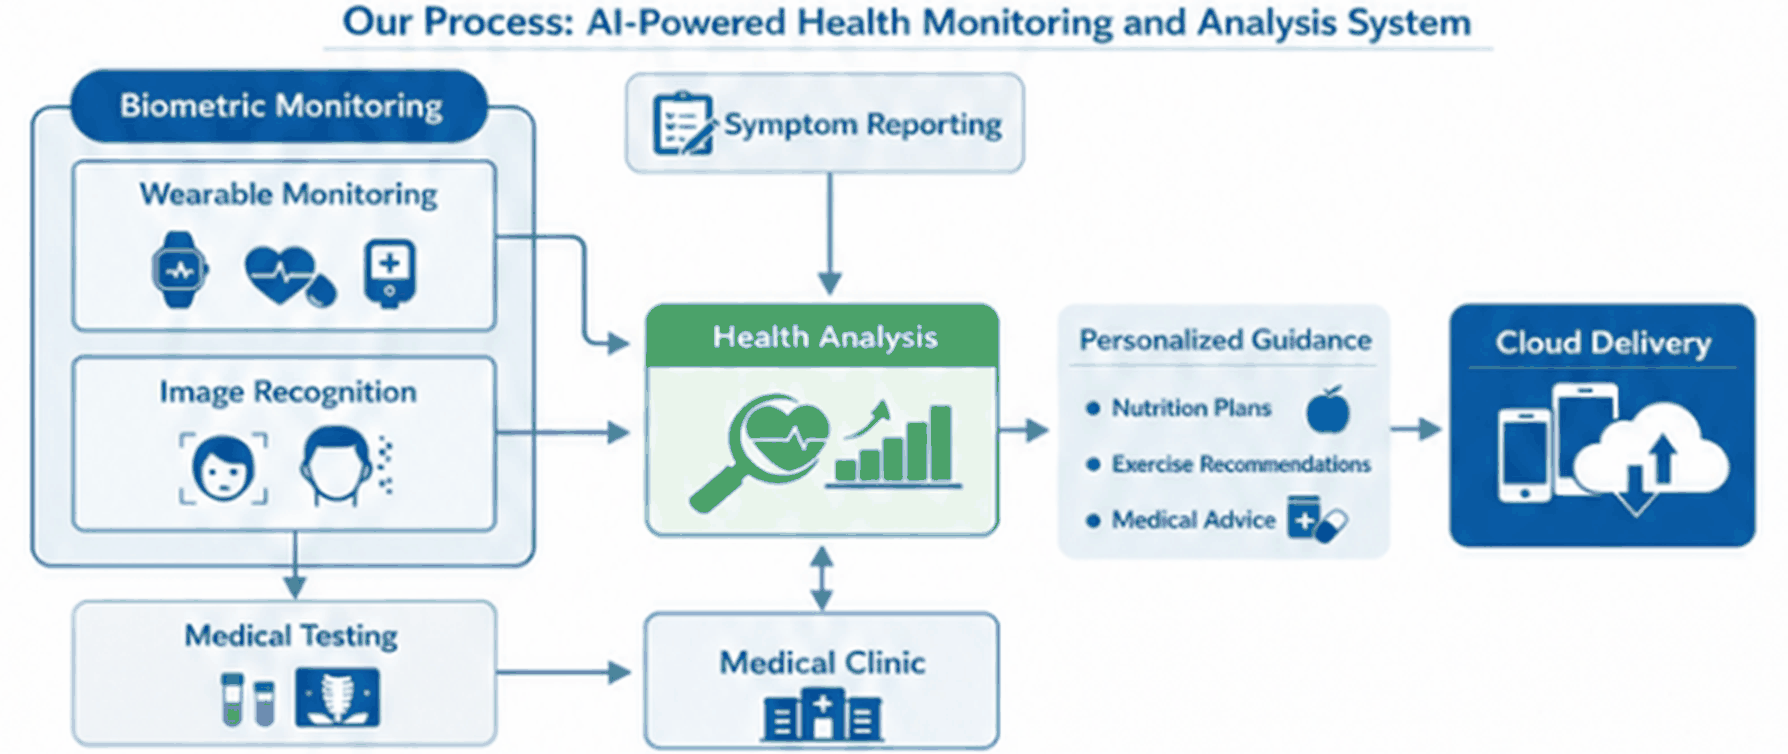
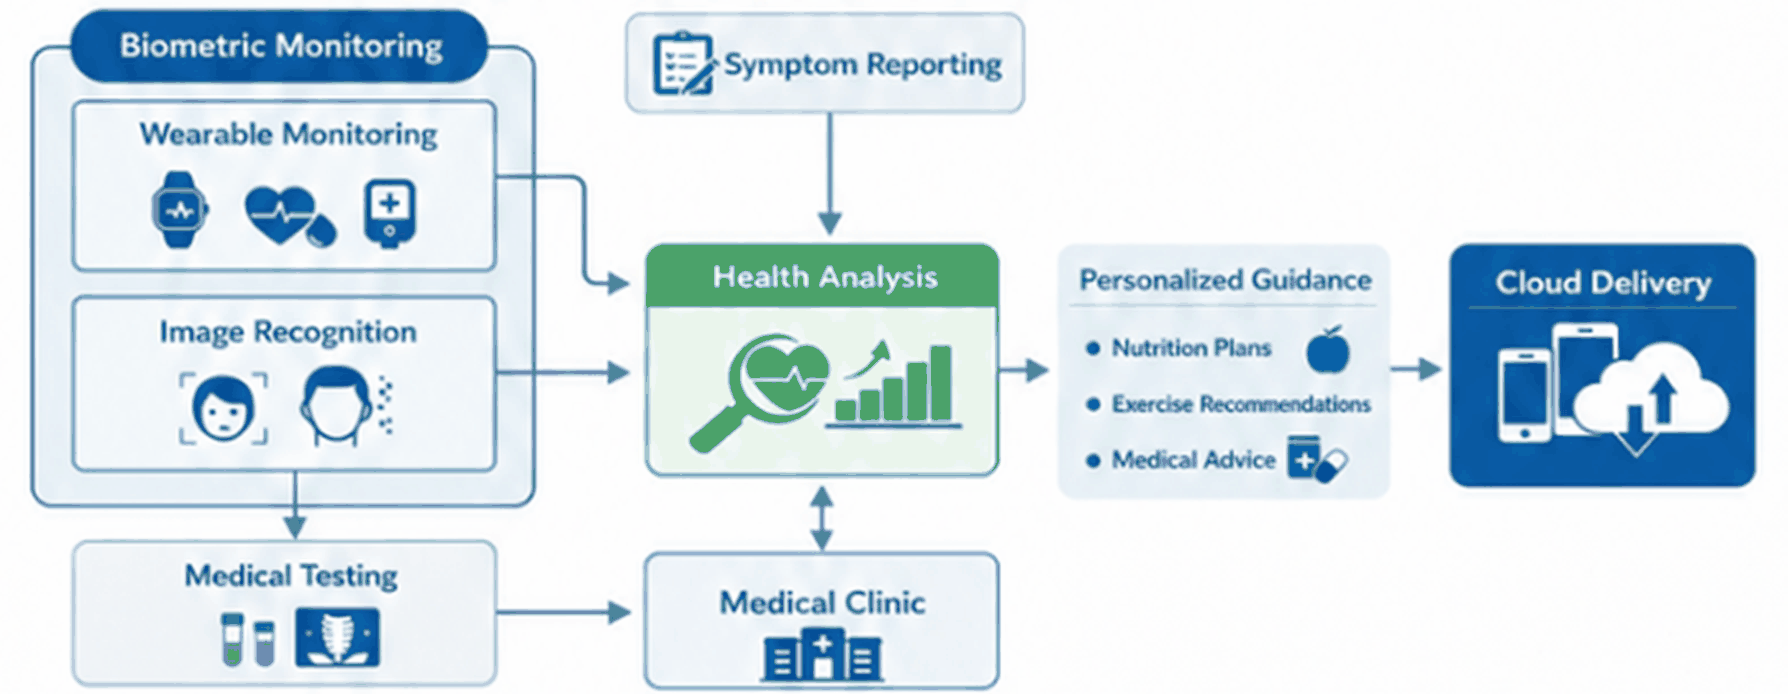
Fix duplicate process heading: crop baked-in title from image, drop 'Our Process:' prefix

diff --git a/index.html b/index.html
@@ -273,7 +273,7 @@ PROCESS / FLOWCHART
 
         <div class="section-heading compact-heading">
 
-            <h2>Our Process: AI-Powered Health Monitoring and Analysis System</h2>
+            <h2>AI-Powered Health Monitoring and Analysis System</h2>
 
         </div>
 
@@ -283,7 +283,7 @@ PROCESS / FLOWCHART
                 alt="Our process: biometric monitoring (wearable monitoring and image recognition) and medical testing feed into health analysis, alongside symptom reporting; health analysis connects with the medical clinic and produces personalized guidance covering nutrition plans, exercise recommendations, and medical advice, which is delivered via the cloud to your devices."
                 loading="lazy"
                 width="894"
-                height="377"
+                height="347"
             >
         </div>
 